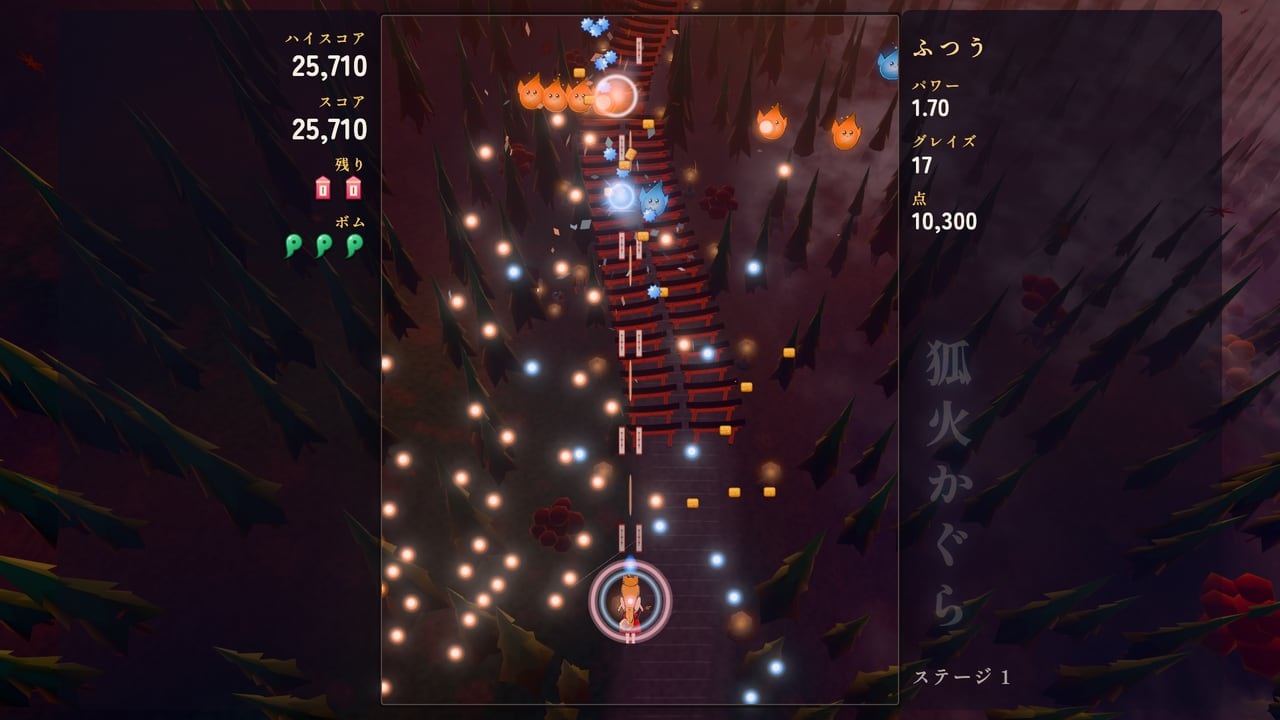
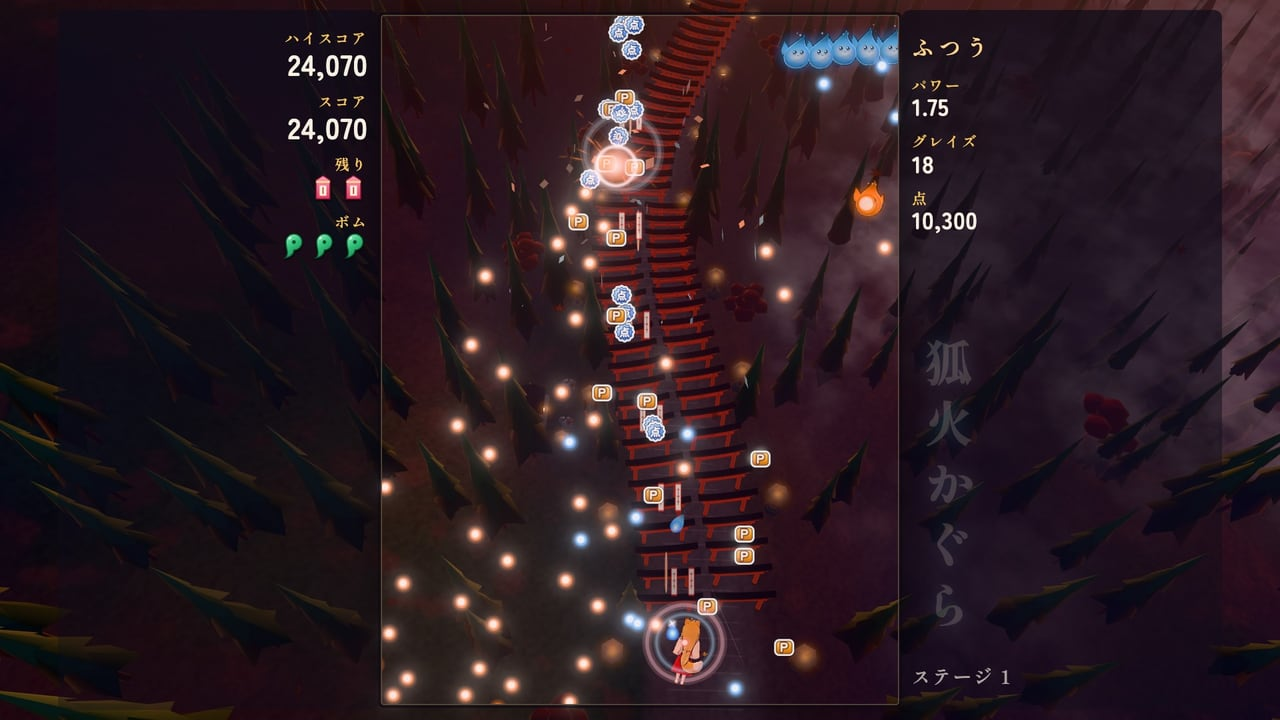
Retake the stage 1 screenshot and show the color vision assist in the README
v1.2.0 でアイテムの見た目（白いふちに「P」「点」の字）を変え、設定に色覚サポートを足したので、README の画像と説明をそろえた。
古いアイテムの絵が写っていたのはステージ 1 の 1 枚だけだったので、それを撮り直した（倒した妖怪がアイテムを落とす場面）。
色覚サポートは、満月の前のボス戦を同じ展開でオフとオンの 2 枚撮り、スクリーンショットの表に並べた。
更新履歴に v1.2.0 を足し、制作についてにこの更新の担当を書いた。動く映像とほかの画像には古いアイテムが写っていないので、そのままにした。

確認：仮想時計と種を固定した乱数で撮り、オフとオンでどのコマも弾の数が同じ（同じ展開）なことを確かめた。
撮った画像はすべて目で見た。README のチェック（参照先・個人情報・画像の重さ）はエラー・警告ともに 0。

AI-Model: claude-opus-5-5
AI-Effort: max

diff --git a/README.md b/README.md
@@ -25,7 +25,7 @@
 <table>
   <tr>
     <td width="50%"><img src="docs/screenshots/title.jpg" alt="タイトル画面。月のない星空の下、稲荷の大鳥居の前に神楽鈴を持った狐の巫女が立つ"><br><sub>タイトル画面。月のない星空の下、稲荷の参道に神楽鈴を持ったいなほが立ちます。</sub></td>
-    <td width="50%"><img src="docs/screenshots/stage1.jpg" alt="ステージ 1。夕暮れの千本鳥居の上を、狐火の妖怪たちが弾を撃ちながら飛んでくる"><br><sub>ステージ 1「夕暮れの千本鳥居」。狐火の妖怪たちが、鳥居の連なる参道の上を飛んできます。</sub></td>
+    <td width="50%"><img src="docs/screenshots/stage1.jpg" alt="ステージ 1。夕暮れの千本鳥居の上で、倒した妖怪が「P」と「点」の字の入った白いふちのアイテムを落とし、橙色の弾が降ってくる"><br><sub>ステージ 1「夕暮れの千本鳥居」。倒した妖怪は、白いふちのアイテム（「P」の油揚げ・「点」の金平糖）を落とします。</sub></td>
   </tr>
   <tr>
     <td><img src="docs/screenshots/dialogue.jpg" alt="ボスとの会話。狐の巫女と豆狸の少女が 3D の立ち絵で向かい合う"><br><sub>ボスとの会話は 3D の立ち絵。話している側だけ明るくなり、口が動き、表情が変わります。</sub></td>
@@ -42,6 +42,10 @@
   <tr>
     <td><img src="docs/screenshots/extra-dialogue.jpg" alt="おまけステージの会話。光る格子の夜空で、狐の巫女と、四角いオレンジ色のカニ Clawd が向かい合う"><br><sub>おまけ「夜空のターミナル」。Claude Code のマスコット Clawd が、ターミナルからやってきます。</sub></td>
     <td><img src="docs/screenshots/extra-diff.jpg" alt="横一列に並んだ赤い弾と緑の弾の行が降りてきて、狐の巫女が行のすき間を抜ける"><br><sub>Clawd の差分「消える赤、増える緑」。赤い行は途中で消え、すき間の違う緑の行に入れ替わります。</sub></td>
+  </tr>
+  <tr>
+    <td><img src="docs/screenshots/color-assist-off.jpg" alt="色覚サポートがオフの画面。満月の前で、光る三日月の弾が黄色くにじんで見える"><br><sub>色覚サポート：オフ（ふだんの見た目）。</sub></td>
+    <td><img src="docs/screenshots/color-assist-on.jpg" alt="色覚サポートがオンの画面。同じ場面で、三日月の弾に暗いふちが付き、背景が暗くなって弾がくっきり見える"><br><sub>色覚サポート：オン（設定）。同じ場面で、弾を見分けやすい色にして暗いふちを付け、背景を暗くします。</sub></td>
   </tr>
 </table>
 
@@ -80,8 +84,11 @@
 
 おまけステージ「夜空のターミナル」は公開のあとに足したもので、Claude Code（Claude Opus 5.5・推論レベル XHIGH）が作りました。Clawd の 3D モデル（箱だけで組んだドット絵のカニ）・弾幕・会話は Claude Code が、背景（ドットの満月と光の格子の夜空）と曲（三味線・琴・篠笛に 8bit の音を混ぜた「八ビットの月見蟹」）はサブエージェントが担当しています。
 
+v1.2.0 の色覚サポート・アイテムの見直し・不具合の修正も、Claude Code（Claude Opus 5.5・推論レベル MAX）が作りました。色覚サポートの弾の色は、色覚の型ごとの見え方を計算して選んでいます。
+
 ## 更新履歴
 
+- **2026-10-26**：設定に「色覚サポート」を追加。アイテムを白いふちに「P」「点」の字にして、弾と見分けやすくした。撃破したボスに会話中に触れるとやられる不具合を修正（v1.2.0）
 - **2026-10-10**：おまけステージ「夜空のターミナル」（Clawd 戦）を追加（v1.1.0）
 - **2026-10-10**：公開。タイトルに「楽曲視聴」を追加
 
